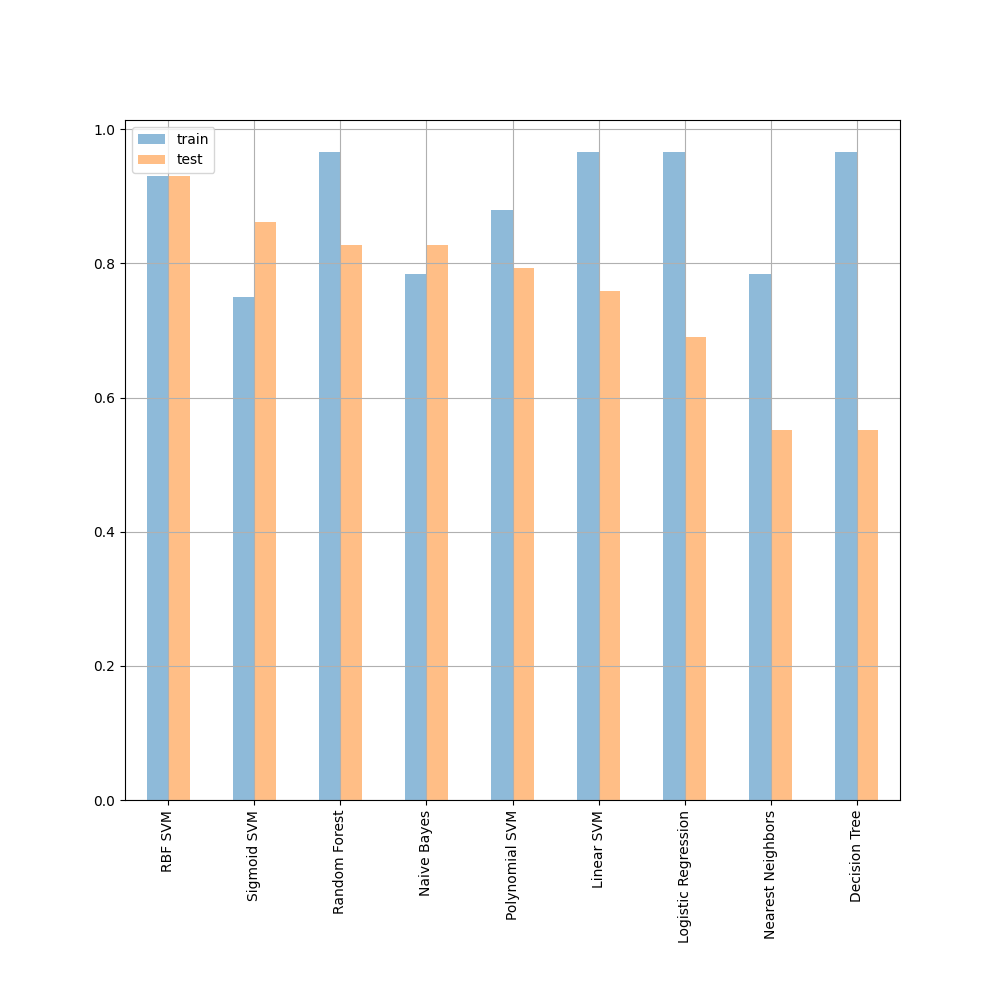
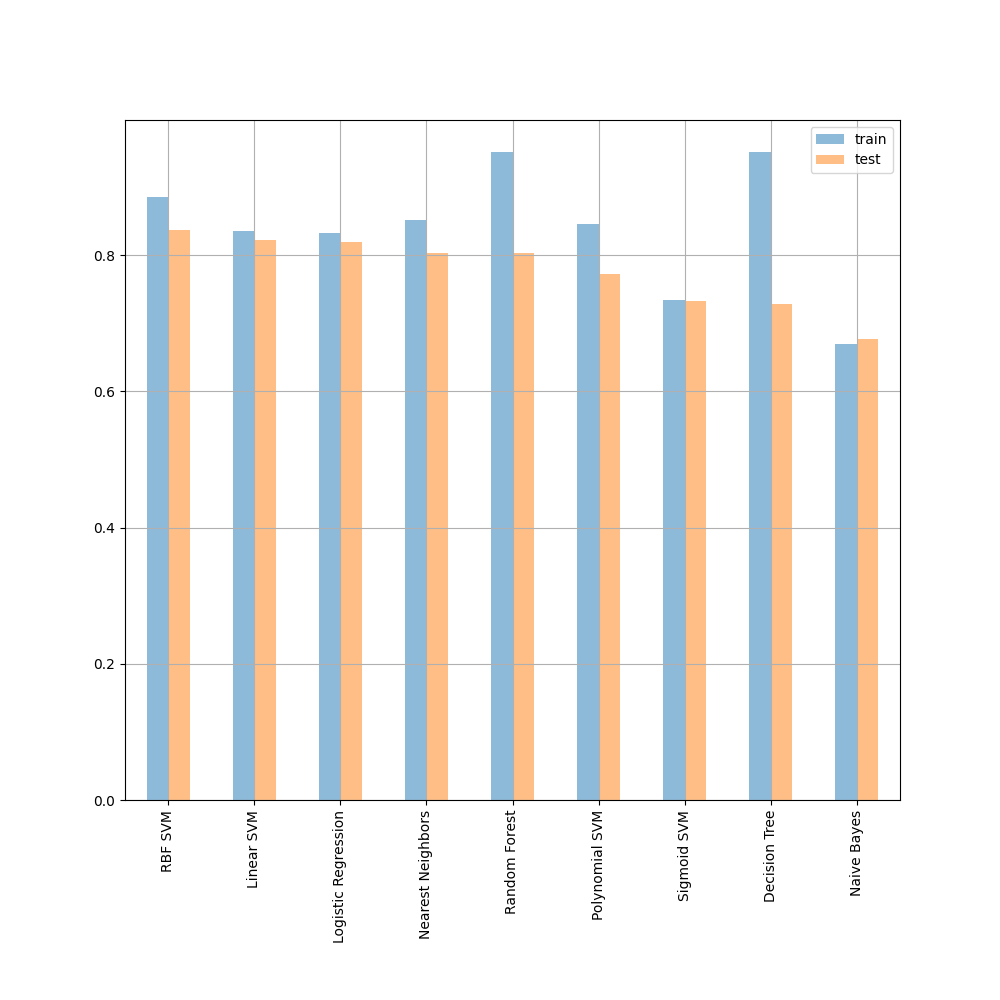
[add]classifier

diff --git a/src/construct_data/artemis/classify_abstruct_or_concrete.py b/src/construct_data/artemis/classify_abstruct_or_concrete.py
@@ -12,6 +12,7 @@ import nltk
 import pickle
 import os
 import matplotlib.pyplot as plt
+from sklearn import metrics
 from sklearn.metrics import confusion_matrix
 import seaborn as sns
 nltk.download('averaged_perceptron_tagger')
@@ -20,8 +21,8 @@ def prepare_dataset(test_size):
     filename = 'data/brysbaer.xlsx'
     df = pd.read_excel(filename)
 
-    concrete_word_list = extract_noun(df[df['Conc.M'] >= 3]['Word'].tolist()[:100])
-    abstract_word_list = extract_noun(df[df['Conc.M'] < 3]['Word'].tolist()[:100])
+    concrete_word_list = extract_noun(df[df['Conc.M'] >= 3]['Word'].tolist())
+    abstract_word_list = extract_noun(df[df['Conc.M'] < 3]['Word'].tolist())
     
     train_set = [concrete_word_list, abstract_word_list]
 
@@ -48,10 +49,10 @@ def train(x_train, x_test, y_train, y_test):
     classifiers = [
         LogisticRegression(),
         KNeighborsClassifier(),
-        SVC(kernel="linear"),
-        SVC(kernel="rbf"),
-        SVC(kernel="poly"),
-        SVC(kernel="sigmoid"),
+        SVC(kernel="linear", probability=True),
+        SVC(kernel="rbf", probability=True),
+        SVC(kernel="poly", probability=True),
+        SVC(kernel="sigmoid", probability=True),
         DecisionTreeClassifier(),
         RandomForestClassifier(),
         GaussianNB(),
@@ -60,7 +61,7 @@ def train(x_train, x_test, y_train, y_test):
     result = []
     
     for name, clf in zip(names, classifiers):
-        print('train {} ...', name)
+        print('train {} ...'.format(name))
         clf.fit(x_train, y_train)
         train_score = clf.score(x_train, y_train)
         test_score = clf.score(x_test, y_test)
@@ -74,13 +75,17 @@ def train(x_train, x_test, y_train, y_test):
         
     df_result = pd.DataFrame(result, columns=['train', 'test'], index=names).sort_values('test', ascending=False)
     
+    print(df_result)
+    
     plt.rcParams['figure.subplot.bottom'] = 0.2
     plt.figure()
     df_result.plot(kind='bar', alpha=0.5, grid=True, figsize=(10, 10))
     plt.savefig('classifiers.png')
     plt.close('all')
     
-    best_classifier = pickle.load(open('models/abstract_classifier/{}.sav'.format(df_result.head(1).index[0])))
+    best_name = str(df_result.head(1).index[0])
+    best_filename = 'models/abstract_classifier/{}.sav'.format(best_name)
+    best_classifier = pickle.load(open(best_filename, 'rb'))
     
     return best_classifier
     
@@ -98,13 +103,38 @@ def classify(classifier, token):
 
     return classes[classifier.predict([token.vector])[0]]
 
-def plot_confision_matrix(classifier, x_test, y_test):
+def plot_graphes(classifier, x_test, y_test):
+    plt.rcParams['font.family'] = 'Noto Sans JP'
+    
     pred = classifier.predict(x_test)
     cm = confusion_matrix(y_test, pred)
+    cm = pd.DataFrame(
+        data=cm,
+        index=['具体名詞', '抽象名詞'],
+        columns=['具体名詞', '抽象名詞']
+    )
     
     sns.heatmap(cm, square=True, cbar=True, annot=True, cmap='Blues')
+    plt.yticks(rotation=0)
+    plt.xlabel("Actual", fontweight='bold')
+    plt.ylabel("Predict", fontweight='bold')
     plt.savefig('confusion_matrix.png')
-
+    
+    prob = classifier.predict_proba(x_test)[:, 1]
+    fpr, tpr, threshold = metrics.roc_curve(y_test, prob)
+    print("閾値の数: {}".format(len(threshold)))
+    
+    auc = metrics.auc(fpr, tpr)
+    print('auc:', auc)
+    plt.figure(figsize = (5, 5))
+    plt.plot([0, 1], [0, 1], 'k--')
+    plt.plot(fpr, tpr)
+    plt.xlabel('FPR: False Positive Rate', fontsize = 13)
+    plt.ylabel('TPR: True Positive Rate', fontsize = 13)
+    plt.grid()
+    plt.show()
+    plt.savefig('auc.png')
+    
 if __name__ == "__main__":
     nlp = spacy.load("en_core_web_lg")
     
@@ -112,8 +142,7 @@ if __name__ == "__main__":
     
     print('Dataset prepared...')
     classifier =  train(x_train, x_test, y_train, y_test)
-    plot_confision_matrix(classifier, x_test, y_test)
-
+    plot_graphes(classifier, x_test, y_test)
     # for token in nlp("Have a seat in that chair with comfort and drink some juice to soothe your thirst."):
     #     if token.pos_ == 'NOUN':
     #         result = classify(classifier, token)
